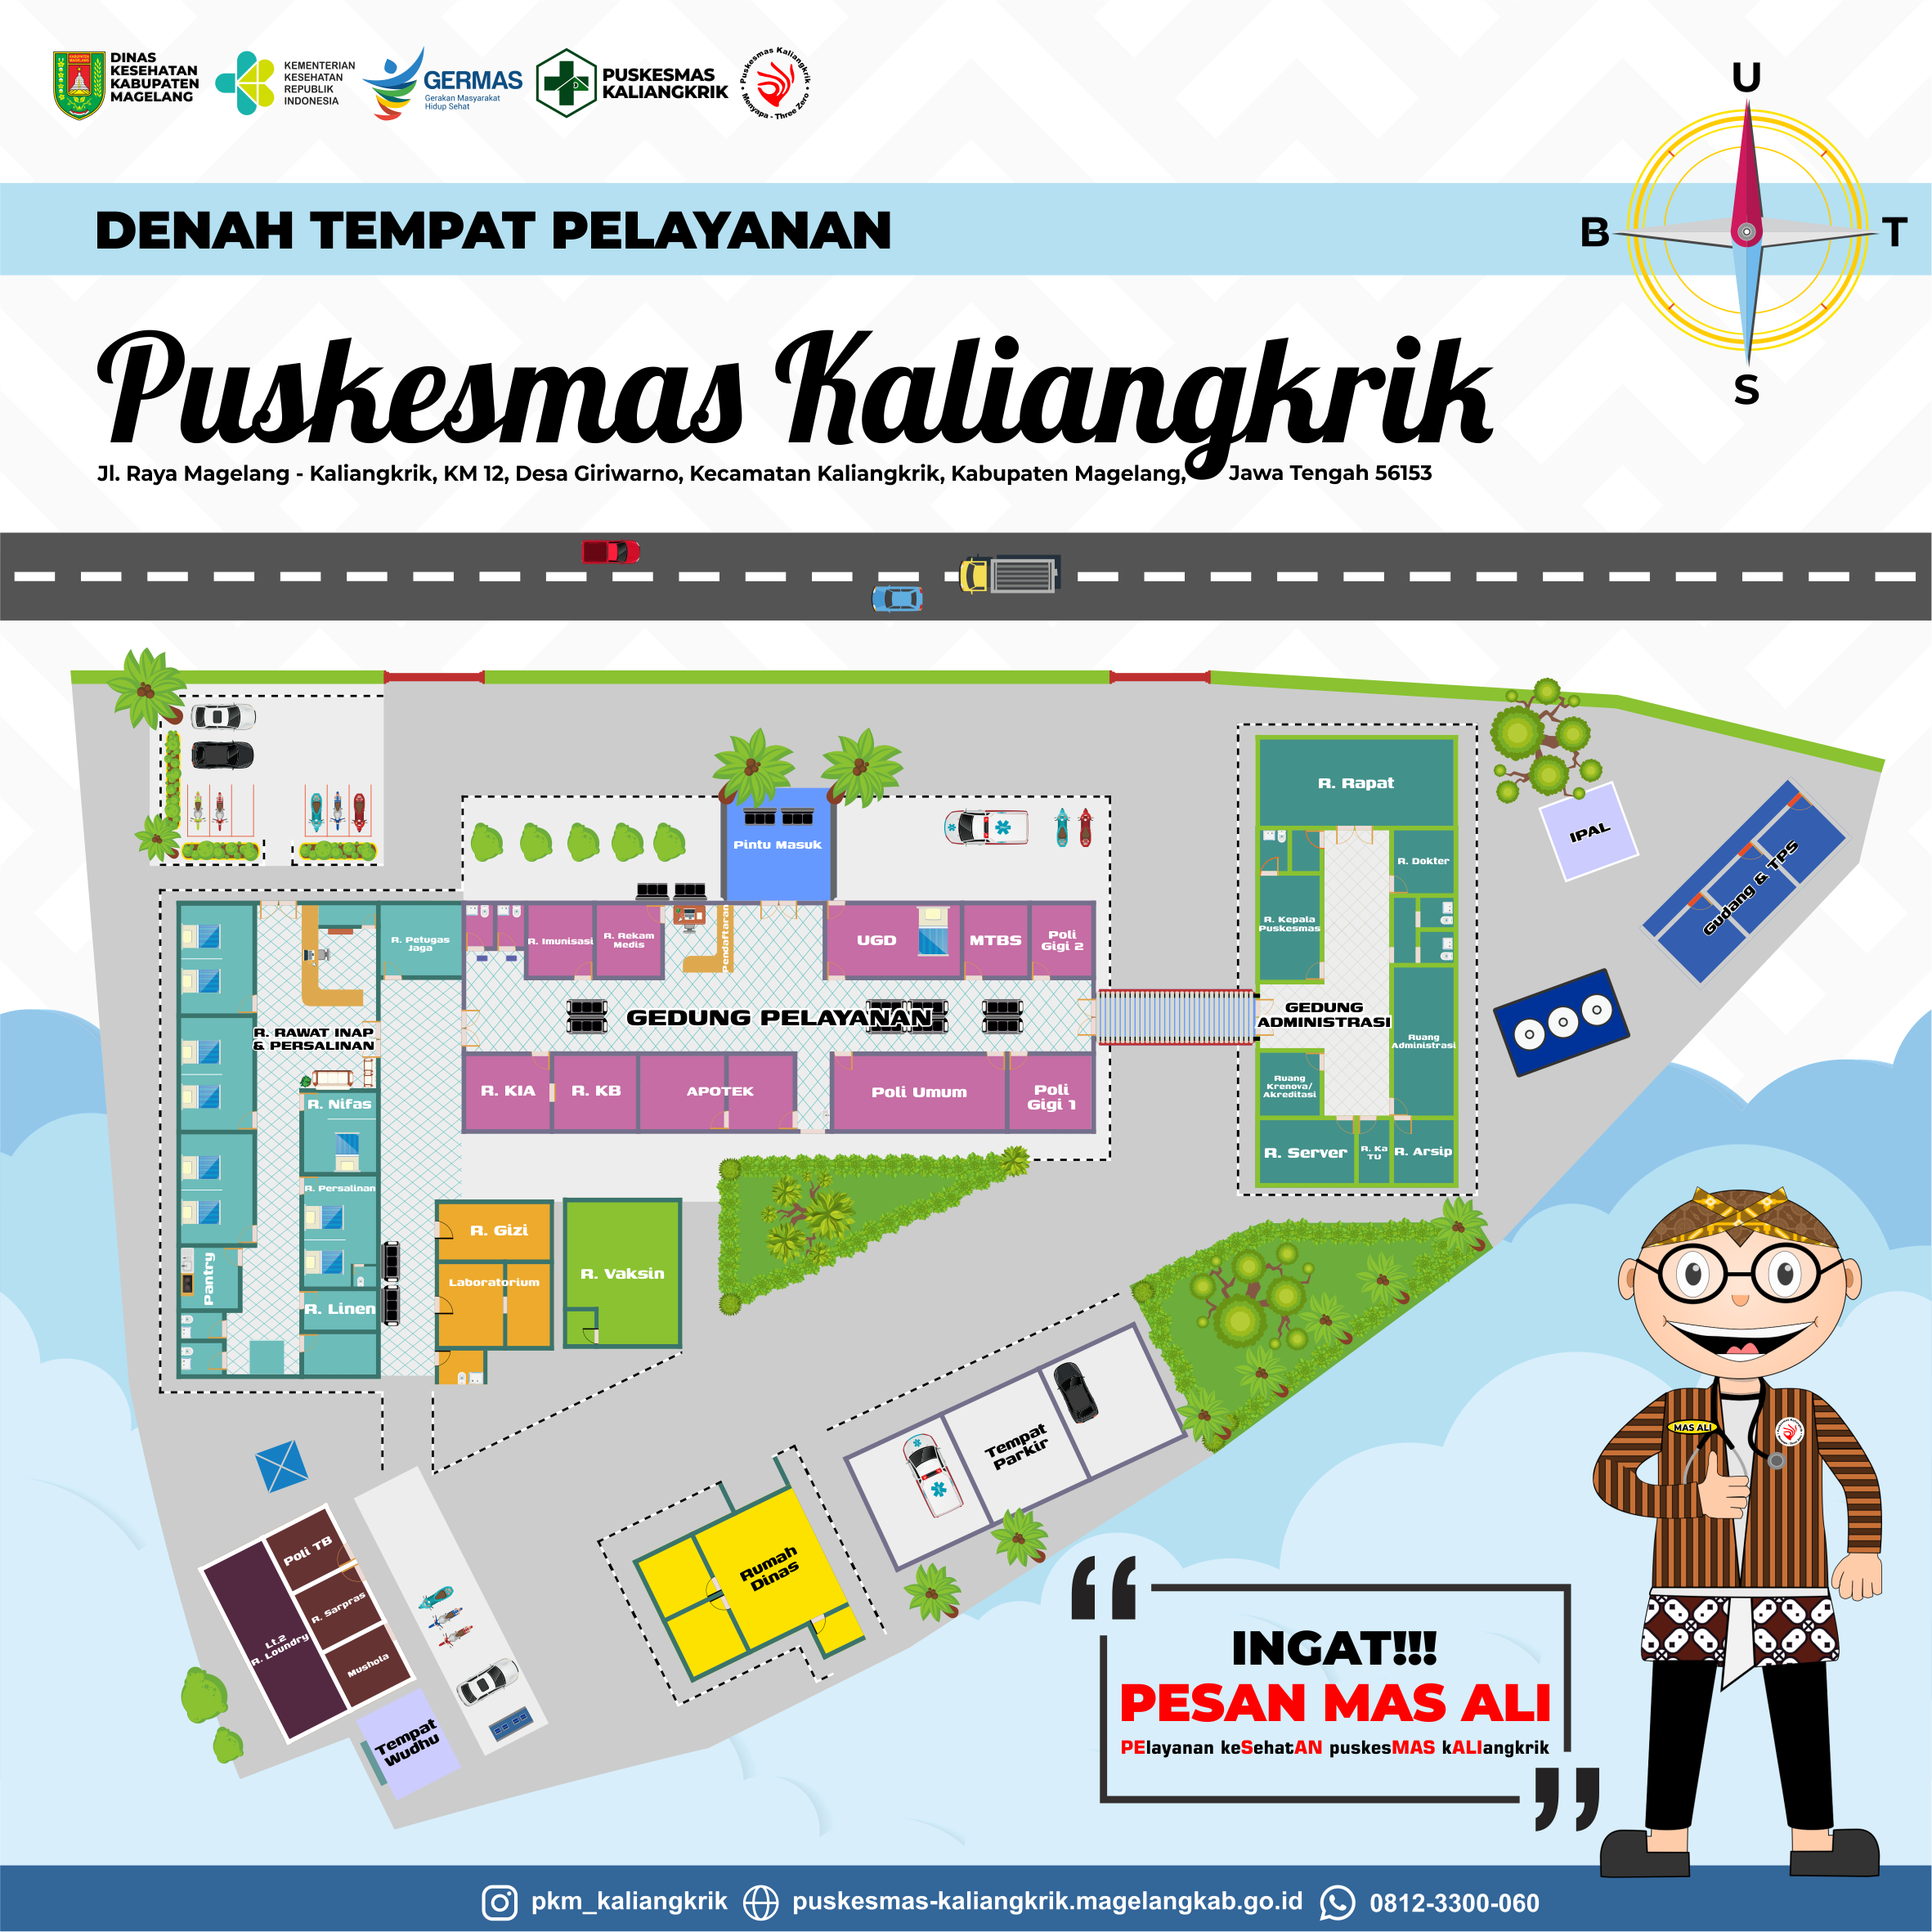
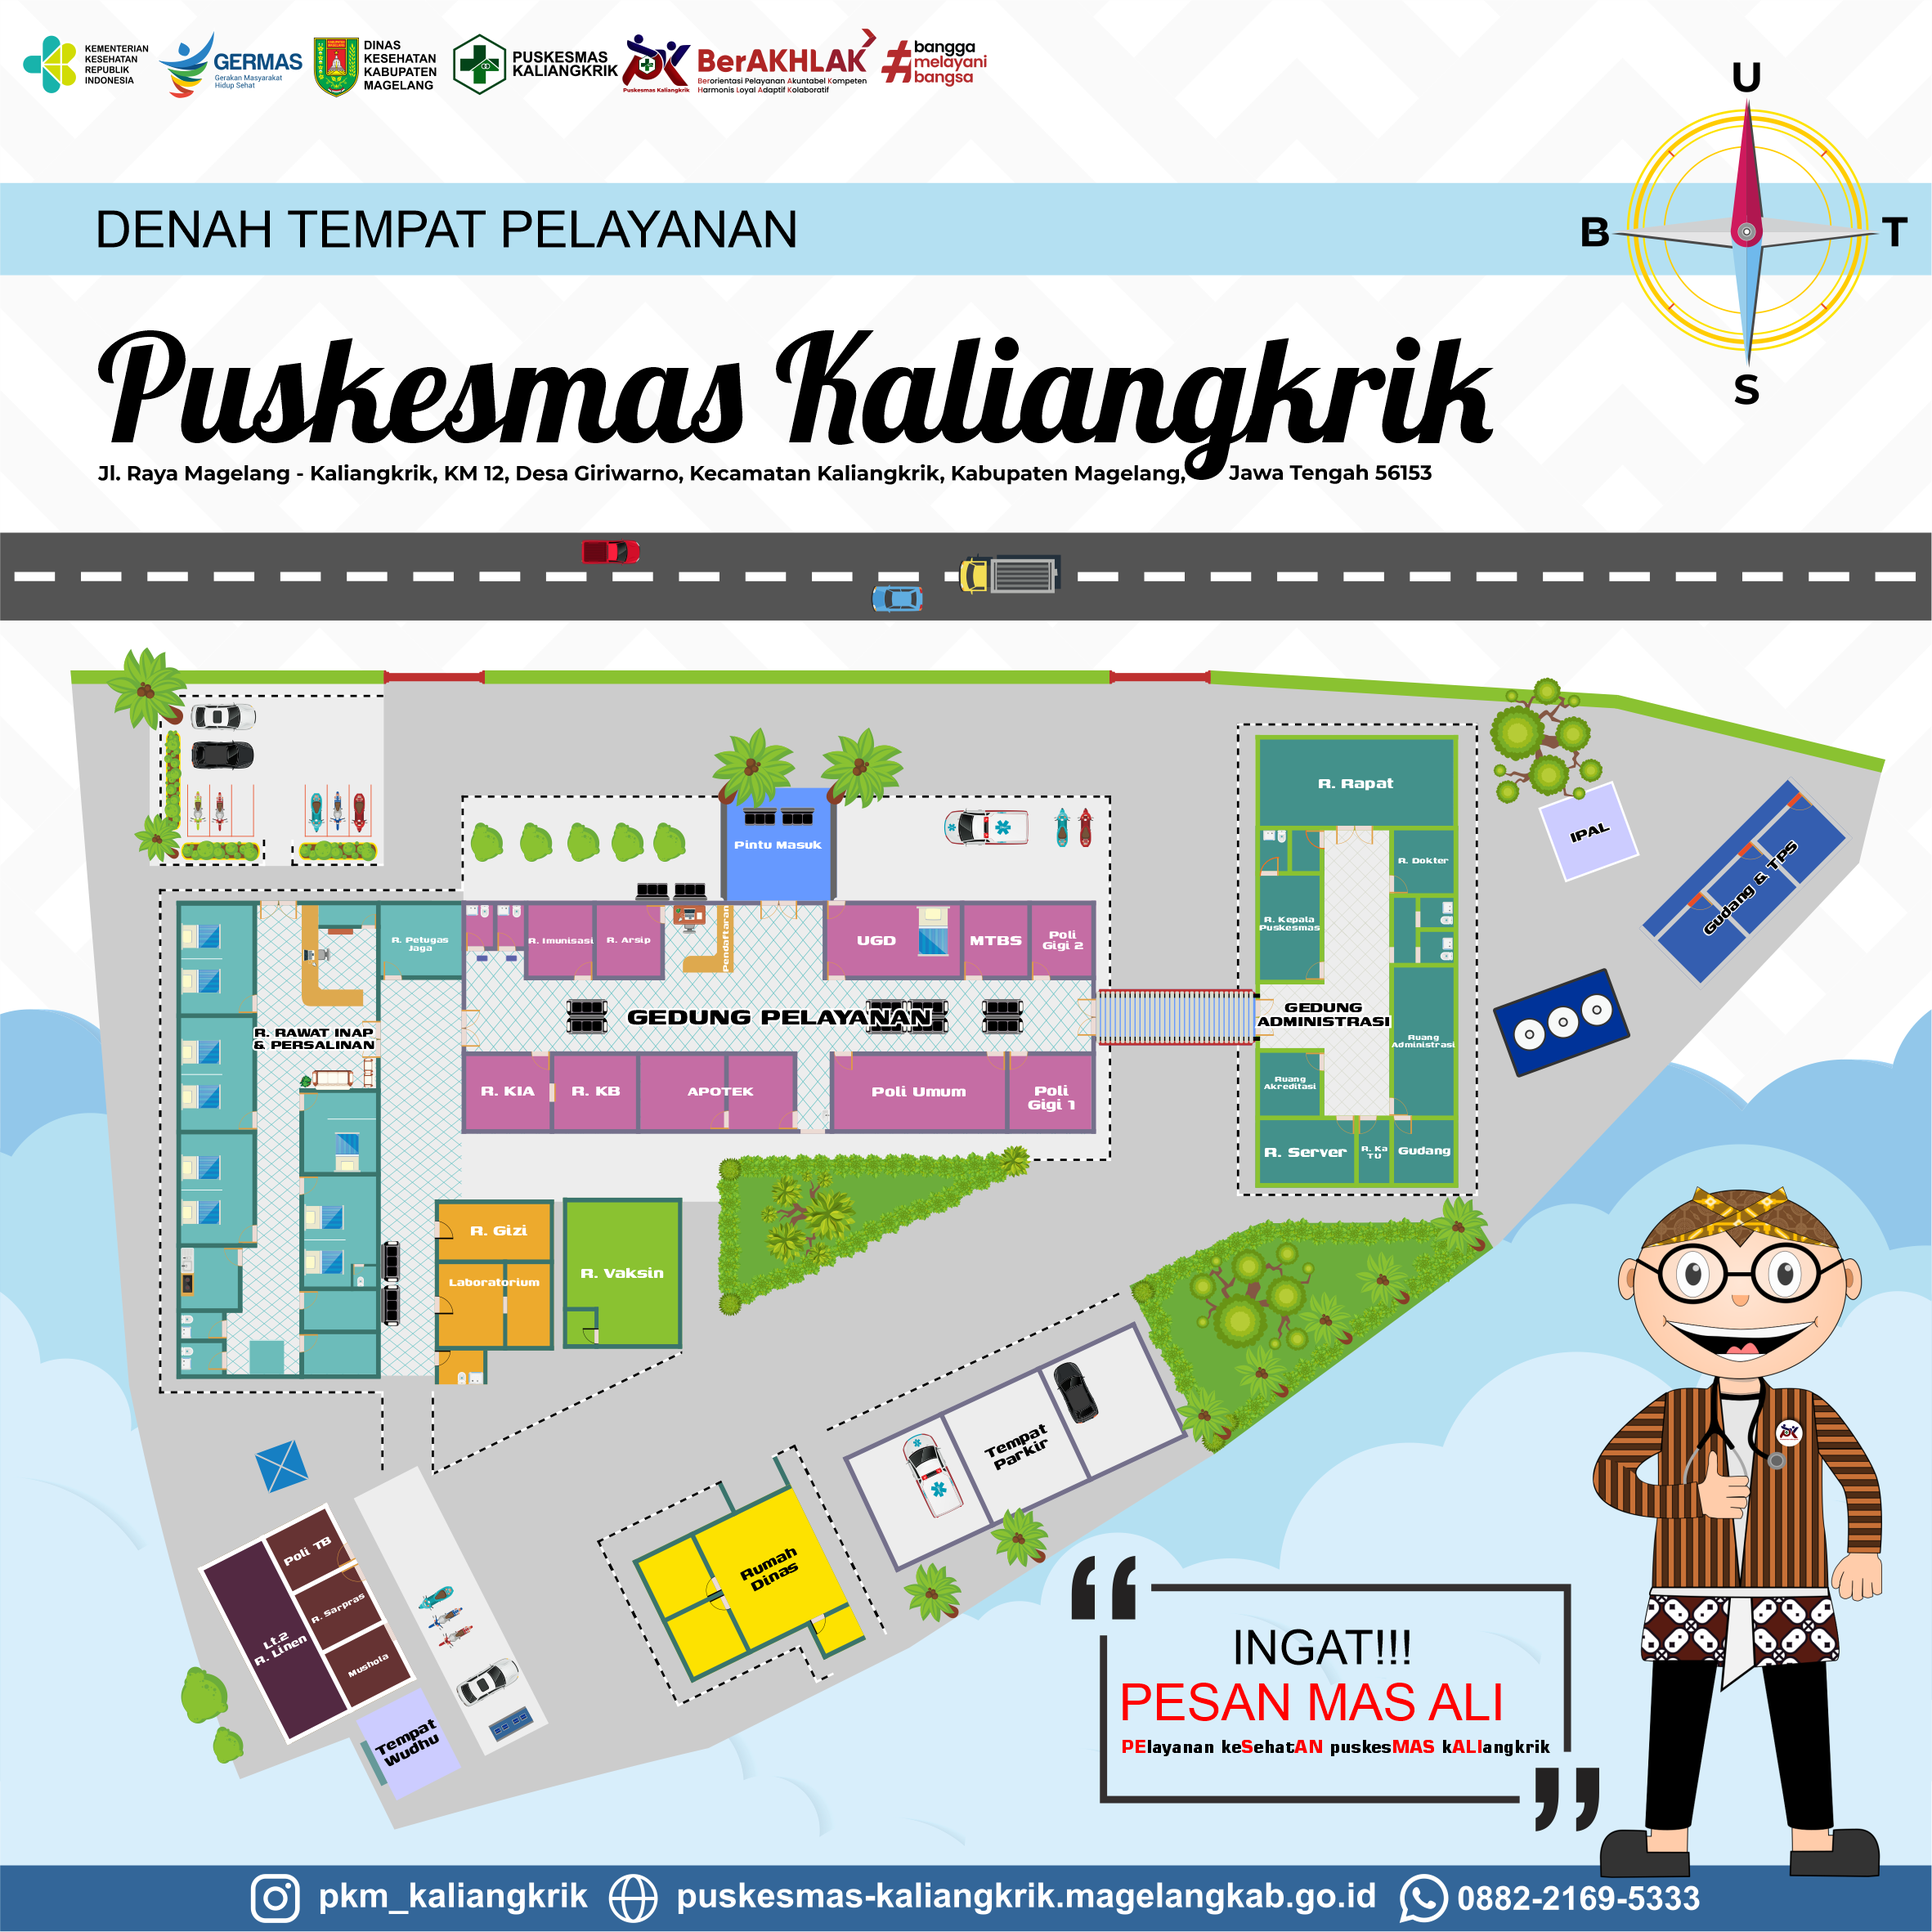
Add files via upload

diff --git a/web/flutter_service_worker.js b/web/flutter_service_worker.js
@@ -3,7 +3,7 @@ const MANIFEST = 'flutter-app-manifest';
 const TEMP = 'flutter-temp-cache';
 const CACHE_NAME = 'flutter-app-cache';
 const RESOURCES = {
-  "assets/AssetManifest.json": "af7911299d50777aa5ff03636b066342",
+  "assets/AssetManifest.json": "aee208c19c261b2570113d146ac25aea",
 "assets/assets/location/APOTEK.jpg": "d9e51ae5d949d7f21a0d372b180b1d6c",
 "assets/assets/location/GD%2520BELAKANG%2520LT.1.jpg": "09b75b81c0ada7d4cb8b7bb6ceb68c77",
 "assets/assets/location/GD%2520BELAKANG%2520LT.2.jpg": "09b75b81c0ada7d4cb8b7bb6ceb68c77",
@@ -32,33 +32,22 @@ const RESOURCES = {
 "assets/assets/location/TPS%2520&%2520IPAL.jpg": "efc4a572568a81cd7338ffe7d2f16219",
 "assets/assets/location/TPS%2520&%2520IPAL_.jpg": "bc4e91106d2abac66f83369d3fdf0da7",
 "assets/assets/location/UGD.jpg": "eec163577ad5d376b2799bae6379f620",
-"assets/assets/map.png": "c1376f8e60498b467b2c59df5b88bc66",
+"assets/assets/map.png": "8372cee309ca99921b9c422c6b54d61b",
 "assets/assets/person/APOTEK.png": "ddbe4ad625e41e22544872281a9e6b9a",
-"assets/assets/person/KA%20TU.png": "562309c2638b58ffa9b86e88862d54e9",
+"assets/assets/person/KA%2520TU.png": "562309c2638b58ffa9b86e88862d54e9",
 "assets/assets/person/KESLING.png": "e7311e97731f520a69563e1f0b2fe067",
-"assets/assets/person/LABORATORIUM.jpg": "e659cc0e82eb9fc0e820b1b9b311f778",
 "assets/assets/person/LABORATORIUM.png": "c5b120be209f37fc05d16054988164b4",
 "assets/assets/person/MTBS.jpg": "1fa6f77c152cbec0f3cb00050c9a1e86",
 "assets/assets/person/null.png": "4788048f319dc48101678d9e69f5077e",
-"assets/assets/person/PAK%20FER-KAPUS.png": "82b65eb879acd48d7e575971d611ff46",
-"assets/assets/person/PENDAFTARAN.jpg": "341af25dd641958d491f78001c77ec51",
+"assets/assets/person/PAK%2520FER-KAPUS.png": "82b65eb879acd48d7e575971d611ff46",
 "assets/assets/person/PENDAFTARAN.png": "562309c2638b58ffa9b86e88862d54e9",
-"assets/assets/person/POLI%20GIGI.png": "e61114d7711821a1ab557c58b7fd84d7",
-"assets/assets/person/POLI%20TBC.png": "cf8e4459b33ea7e46f63094dce137041",
-"assets/assets/person/POLI%20UMUM.png": "4c50b7ee8c01edbea29c30641afdd085",
-"assets/assets/person/POLI%2520GIGI.jpg": "8e4a4f76d5a230bdcb0be348452028f2",
-"assets/assets/person/POLI%2520TB.jpg": "0f2425d944e443524819f2cde883e61c",
-"assets/assets/person/POLI%2520UMUM.jpg": "c8a851b199d6c6fd78fa3c23af1b5069",
-"assets/assets/person/R.GIZI.jpg": "313bda7e21827ace63b6a551967cf3aa",
+"assets/assets/person/POLI%2520GIGI.png": "e61114d7711821a1ab557c58b7fd84d7",
+"assets/assets/person/POLI%2520TB.png": "cf8e4459b33ea7e46f63094dce137041",
+"assets/assets/person/POLI%2520UMUM.png": "4c50b7ee8c01edbea29c30641afdd085",
 "assets/assets/person/R.GIZI.png": "7603bf9ccd2da095780e95aab5ae7d10",
-"assets/assets/person/R.KA.PUSKESMAS.jpg": "4def4768d3fe674ec77e1e1ca310e232",
-"assets/assets/person/R.KA.TU.jpg": "a12702a2a81f40ae8170893146c900f3",
-"assets/assets/person/R.KIA%20KB.png": "c8d1c0c383833962f5cb20f0c12193a3",
-"assets/assets/person/R.KIA%2520KB.jpg": "7169dd75fd02b2273ecfad117b5a2b5f",
+"assets/assets/person/R.KIA%2520KB.png": "c8d1c0c383833962f5cb20f0c12193a3",
 "assets/assets/person/R.VAKSIN.jpg": "a0625a2eba6b10798fb39bf1078605ef",
-"assets/assets/person/RAWAT%20INAP.png": "d062d26ce747c994f4a044b3ecc2e972",
-"assets/assets/person/RAWAT%2520INAP.jpg": "5c0998d5145dda8269b3b51f4d171d97",
-"assets/assets/person/UGD.jpg": "f7614cb7093b1e21267516523561946c",
+"assets/assets/person/RAWAT%2520INAP.png": "d062d26ce747c994f4a044b3ecc2e972",
 "assets/assets/person/UGD.png": "f19a3bc1250a399667a3cda0c06c8893",
 "assets/FontManifest.json": "5a32d4310a6f5d9a6b651e75ba0d7372",
 "assets/fonts/MaterialIcons-Regular.otf": "7e7a6cccddf6d7b20012a548461d5d81",
@@ -76,8 +65,8 @@ const RESOURCES = {
 "icons/Icon-512.png": "96e752610906ba2a93c65f8abe1645f1",
 "icons/Icon-maskable-192.png": "c457ef57daa1d16f64b27b786ec2ea3c",
 "icons/Icon-maskable-512.png": "301a7604d45b3e739efc881eb04896ea",
-"index.html": "1b9b6ff9b8e326a71712faa74bb48dc3",
-"/": "1b9b6ff9b8e326a71712faa74bb48dc3",
+"index.html": "bb9565e1ab31b9e373f482fa43344e8c",
+"/": "bb9565e1ab31b9e373f482fa43344e8c",
 "main.dart.js": "cabb9bdcc0b78d36a4e681edf2b1f453",
 "manifest.json": "e4a1cf04faa7587feac3d3fa09860ecb",
 "version.json": "25666f0c0ada1f311e30847819888663"

diff --git a/web/index.html b/web/index.html
@@ -37,7 +37,7 @@
        application. For more information, see:
        https://developers.google.com/web/fundamentals/primers/service-workers -->
   <script>
-    var serviceWorkerVersion = '1790948909';
+    var serviceWorkerVersion = '1701355682';
     var scriptLoaded = false;
     function loadMainDartJs() {
       if (scriptLoaded) {
